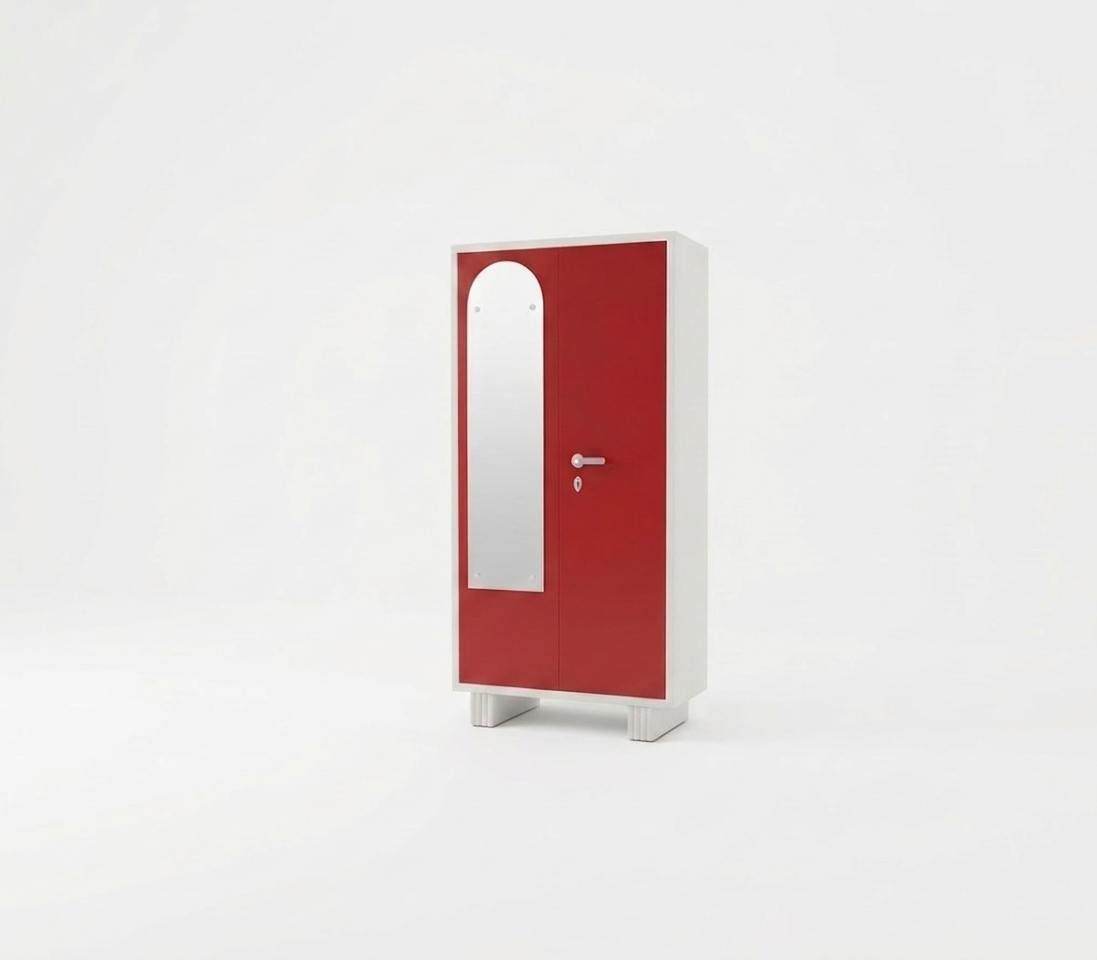
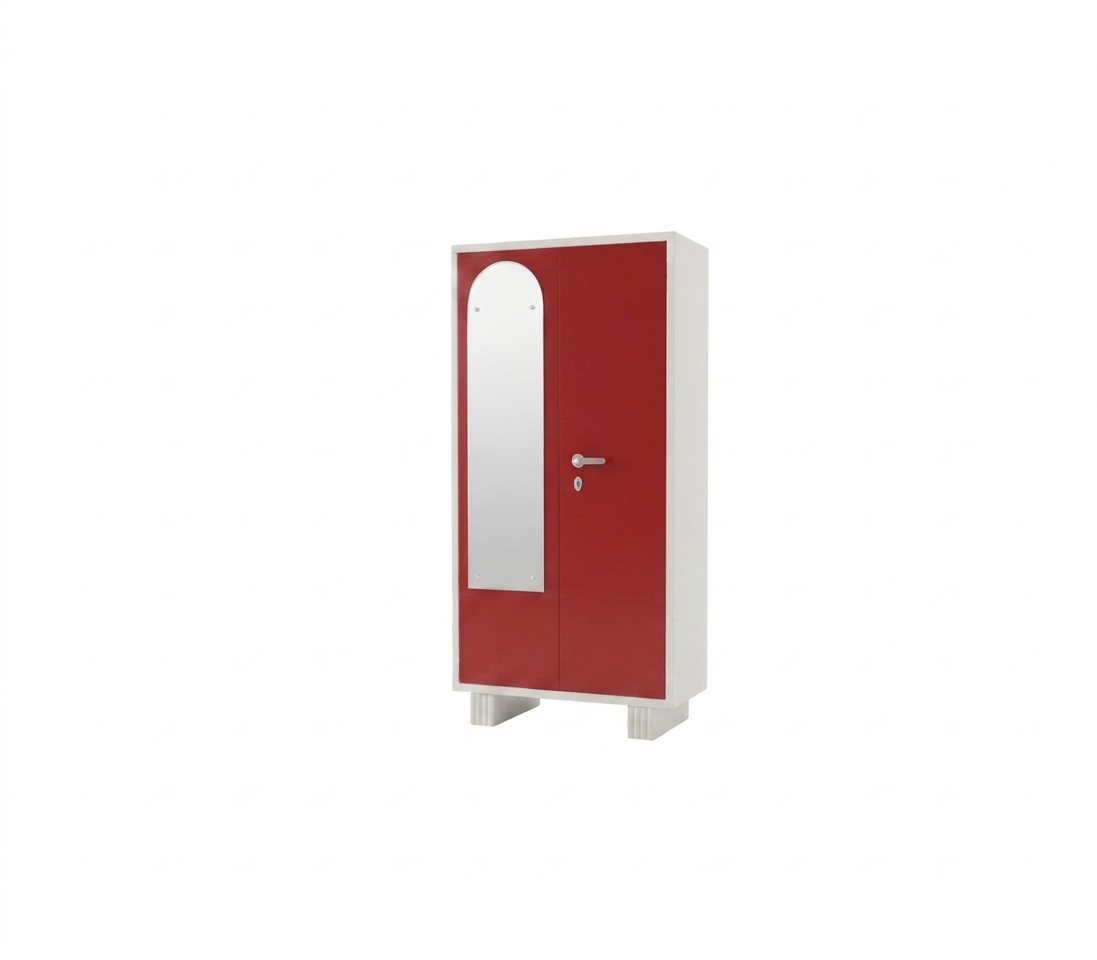
All Products  added

diff --git a/src/lib/furniture.ts b/src/lib/furniture.ts
@@ -90,22 +90,22 @@ const product = (
 });
 
 export const PRODUCTS: FurnitureProduct[] = [
-  product("almirah1", "Steel Almirah / Daraz", CATEGORIES[0] ?? "Storage", "A decorative steel almirah with twin arched mirror doors, built-in clock, open cubbies and pull-out drawers — designed for everyday storage of clothes, documents and household essentials.", { images: ["/furniture/almirah1.jpg"], modelUrl: "/models/almirah1.glb" }),
-  product("almirah2", "Steel Almirah / Daraz", CATEGORIES[0] ?? "Storage", "A decorative steel almirah with twin arched mirror doors, built-in clock, open cubbies and pull-out drawers — designed for everyday storage of clothes, documents and household essentials.", { images: ["/furniture/almirah2.jpg"], modelUrl: "/models/almirah2.glb" }),
-  product("wardrobe2", "Steel Wardrobe 2-Door", CATEGORIES[1] ?? "Storage", "A multi-door storage design with separate hanging and shelving spaces for an organized bedroom.", { images: ["/furniture/daraz1.jpg"], modelUrl: "/models/daraz1.glb" }),
-  product("bed1", "Steel Bed with Mattress", CATEGORIES[2] ?? "Bedroom", "A steel bed design with a supported frame and mattress presentation for bedroom spaces.", { images: ["/furniture/bed1.jpg"], modelUrl: "/models/bed1.glb" }),
-  product("matress1", "Steel Bed Mattress Design", CATEGORIES[2] ?? "Bedroom", "A steel bed and mattress design for bedroom spaces.", { images: ["/furniture/matress1.jpg"], modelUrl: "/models/matress1.glb", modelScale: 0.45 }),
-  product("chair1", "Steel Dining Chair", CATEGORIES[3] ?? "Seating", "A straightforward seating design for household and commercial spaces, with a metal frame and supported backrest.", { images: ["/furniture/chair1.jpg"], modelUrl: "/models/chair1.glb" }),
-  product("chair2", "Steel Dining Chair 2", CATEGORIES[3] ?? "Seating", "A straightforward seating design for household and commercial spaces, with a metal frame and supported backrest.", { images: ["/furniture/chair2.jpg"], modelUrl: "/models/chair2.glb" }),
-  product("waitingchair1", "Steel Waiting Chair", CATEGORIES[3] ?? "Seating", "A practical steel waiting chair for reception and public seating spaces.", { images: ["/furniture/waitingchair1.jpg"], modelUrl: "/models/waitingchair1.glb" }),
-  product("sofa1", "Steel Sofa", CATEGORIES[4] ?? "Sofas", "A practical sofa design with a durable steel frame and cushioned seating for homes, offices and waiting spaces.", { images: ["/furniture/sofa1.jpg"], modelUrl: "/models/sofa1.glb" }),
-  product("sofa2", "Steel Sofa", CATEGORIES[4] ?? "Sofas", "A practical sofa design with a durable steel frame and cushioned seating for homes, offices and waiting spaces.", { images: ["/furniture/sofa2.jpg"], modelUrl: "/models/sofa2.glb" }),
-  product("desk1", "Steel Workshop Table", CATEGORIES[5] ?? "Office", "A practical workspace design with a generous tabletop and drawer storage for everyday office essentials.", { images: ["/furniture/table1.jpg"], modelUrl: "/models/table1.glb" }),
-  product("desk2", "Steel Workshop Table", CATEGORIES[5] ?? "Office", "A practical workspace design with a generous tabletop and drawer storage for everyday office essentials.", { images: ["/furniture/table2.jpg"], modelUrl: "/models/table2.glb" }),
-  product("locker1", "Steel Locker", CATEGORIES[6] ?? "Storage", "A secure storage solution with a lockable door and a sturdy frame for keeping items safe.", { images: ["/furniture/locker1.jpg"], modelUrl: "/models/locker1.glb" }),
-  product("rack1", "Steel Storage Rack", CATEGORIES[6] ?? "Storage", "An open steel storage rack for organizing household, office and commercial items.", { images: ["/furniture/rack1.jpg"], modelUrl: "/models/rack1.glb" }),
-  product("safe1", "Steel Safe", CATEGORIES[6] ?? "Storage", "A secure steel safe design for storing important documents and valuables.", { images: ["/furniture/safe1.jpg"], modelUrl: "/models/safe1.glb" }),
-  product("wardrobe1", "Steel Wardrobe 2-Door", CATEGORIES[1] ?? "Storage", "A multi-door storage design with separate hanging and shelving spaces for an organized bedroom.", { images: ["/furniture/wardrobe1.jpg"], modelUrl: "/models/wardrobe1.glb" }),
+  product("almirah1", "3-Piece Almirah", CATEGORIES[0] ?? "Storage", "A decorative steel almirah with twin arched mirror doors, built-in clock, open cubbies and pull-out drawers — designed for everyday storage of clothes, documents and household essentials.", { images: ["/furniture/almirah1.jpg"], modelUrl: "/models/almirah1.glb" }),
+  product("almirah2", "Single Door Almirah", CATEGORIES[0] ?? "Storage", "A decorative steel almirah with twin arched mirror doors, built-in clock, open cubbies and pull-out drawers — designed for everyday storage of clothes, documents and household essentials.", { images: ["/furniture/almirah2.jpg"], modelUrl: "/models/almirah2.glb" }),
+  product("wardrobe2", "One Locker Office Alimarah", CATEGORIES[1] ?? "Storage", "A multi-door storage design with separate hanging and shelving spaces for an organized bedroom.", { images: ["/furniture/daraz1.jpg"], modelUrl: "/models/daraz1.glb" }),
+  product("bed1", "Wooden Bed", CATEGORIES[2] ?? "Bedroom", "A steel bed design with a supported frame and mattress presentation for bedroom spaces.", { images: ["/furniture/bed1.jpg"], modelUrl: "/models/bed1.glb" }),
+  product("matress1", " Mattress ", CATEGORIES[2] ?? "Bedroom", "A steel bed and mattress design for bedroom spaces.", { images: ["/furniture/matress1.jpg"], modelUrl: "/models/matress1.glb", modelScale: 0.45 }),
+  product("chair1", "Boss Chair", CATEGORIES[3] ?? "Seating", "A straightforward seating design for household and commercial spaces, with a metal frame and supported backrest.", { images: ["/furniture/chair1.jpg"], modelUrl: "/models/chair1.glb" }),
+  product("chair2", "Computer Chair", CATEGORIES[3] ?? "Seating", "A straightforward seating design for household and commercial spaces, with a metal frame and supported backrest.", { images: ["/furniture/chair2.jpg"], modelUrl: "/models/chair2.glb" }),
+  product("waitingchair1", "3-Seat Waiting Chair", CATEGORIES[3] ?? "Seating", "A practical steel waiting chair for reception and public seating spaces.", { images: ["/furniture/waitingchair1.jpg"], modelUrl: "/models/waitingchair1.glb" }),
+  product("sofa1", " Sofa", CATEGORIES[4] ?? "Sofas", "A practical sofa design with a durable steel frame and cushioned seating for homes, offices and waiting spaces.", { images: ["/furniture/sofa1.jpg"], modelUrl: "/models/sofa1.glb" }),
+  product("sofa2", "Sofa", CATEGORIES[4] ?? "Sofas", "A practical sofa design with a durable steel frame and cushioned seating for homes, offices and waiting spaces.", { images: ["/furniture/sofa2.jpg"], modelUrl: "/models/sofa2.glb" }),
+  product("desk1", "Single Office Table", CATEGORIES[5] ?? "Office", "A practical workspace design with a generous tabletop and drawer storage for everyday office essentials.", { images: ["/furniture/table1.jpg"], modelUrl: "/models/table1.glb" }),
+  product("desk2", "Double Office Table", CATEGORIES[5] ?? "Office", "A practical workspace design with a generous tabletop and drawer storage for everyday office essentials.", { images: ["/furniture/table2.jpg"], modelUrl: "/models/table2.glb" }),
+  product("locker1", "Locker", CATEGORIES[6] ?? "Storage", "A secure storage solution with a lockable door and a sturdy frame for keeping items safe.", { images: ["/furniture/locker1.jpg"], modelUrl: "/models/locker1.glb" }),
+  product("rack1", "Open Rack", CATEGORIES[6] ?? "Storage", "An open steel storage rack for organizing household, office and commercial items.", { images: ["/furniture/rack1.jpg"], modelUrl: "/models/rack1.glb" }),
+  product("safe1", "Safe", CATEGORIES[6] ?? "Storage", "A secure steel safe design for storing important documents and valuables.", { images: ["/furniture/safe1.jpg"], modelUrl: "/models/safe1.glb" }),
+  product("wardrobe1", "Full Glass Door", CATEGORIES[1] ?? "Storage", "A multi-door storage design with separate hanging and shelving spaces for an organized bedroom.", { images: ["/furniture/wardrobe1.jpg"], modelUrl: "/models/wardrobe1.glb" }),
 ];
 
 export function getProduct(key: string) {

diff --git a/src/styles.css b/src/styles.css
@@ -113,7 +113,7 @@
 .powder-figure img { display: block; width: 100%; height: auto; object-fit: cover; object-position: center; border-radius: var(--radius-image); }
 .powder-figure figcaption { margin-top: 8px; color: var(--muted-foreground); font-size: 13px; line-height: 1.5; text-align: center; }
 .powder-definition { max-width: 760px; }
-.showroom-canvas { height: 490px; touch-action: none; }
+.showroom-canvas { height: 490px; overflow: hidden; border: 1px solid var(--border); border-radius: var(--radius-image); background: var(--model-white); box-shadow: var(--shadow-subtle); touch-action: none; }
 .showroom-canvas canvas { touch-action: none; }
 .hero-viewer .showroom-canvas { height: 610px; }
 .product-viewer .showroom-canvas { height: 420px; }
